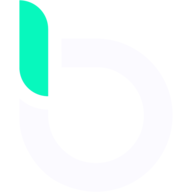
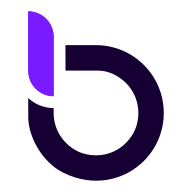
fix(*): try fixing seo shit

Changed region(s): [[0.0938, 0.0, 0.875, 0.9688]]

diff --git a/apps/root/public/index.html b/apps/root/public/index.html
@@ -4,22 +4,28 @@
     <meta charset="utf-8" />
     <meta name="image" content="https://ipfs.io/ipfs/QmU6FqjHkUeWwbNt3mLccEUP8j7vQuosVp61ry9XaSefMG">
     <meta name="keywords" content="crypto,cryptocurrency,balmy,wallet,banking,decentralized,swap,mean,finance,meanfinance,token,btc,eth,ethereum,balmy">
-    <link rel="apple-touch-icon" sizes="180x180" href="/apple-touch-icon.png">
-    <link rel="icon" type="image/png" sizes="32x32" href="/favicon-32x32.png">
-    <link rel="icon" type="image/png" sizes="16x16" href="/favicon-16x16.png">
-    <link rel="mask-icon" href="/safari-pinned-tab.svg" color="#5bbad5">
+    <link rel="apple-touch-icon" sizes="180x180" href="/apple-touch-icon.png?v=1">
+    <link rel="icon" type="image/svg+xml" sizes="any"  href="/favicon.svg?v=1">
+    <link rel="icon" type="image/png" sizes="48x48" href="/favicon.png?v=1">
+    <link rel="icon" type="image/png" sizes="32x32" href="/favicon-32x32.png?v=1">
+    <link rel="icon" type="image/png" sizes="16x16" href="/favicon-16x16.png?v=1">
+    <link rel="manifest" href="/site.webmanifest?v=1">
+    <link rel="mask-icon" href="/safari-pinned-tab.svg?v=1" color="#791aff">
+    <link rel="shortcut icon" href="/favicon.ico?v=1">
+    <meta name="apple-mobile-web-app-title" content="Balmy">
+    <meta name="application-name" content="Balmy">
+    <meta name="msapplication-TileColor" content="#791aff">
+    <meta name="theme-color" content="#FBFAFF">
     <meta name="robots" content="index, follow">
     <meta http-equiv="Content-Type" content="text/html; charset=utf-8">
     <meta name="language" content="English">
     <link rel="manifest" href="/site.webmanifest">
-    <meta name="msapplication-TileColor" content="#da532c">
     <meta
       name="viewport"
       content="minimum-scale=1, initial-scale=1, width=device-width"
     />
     <meta name="title" content="Balmy — Your Decentralized Home Banking">
     <meta name="description" content="Swap, Invest and Transfer your assets with ease. Rest assured, we’ve got your back as you dive into the exciting world of the future of finance.">
-    <link rel='shortcut icon' type='image/x-icon' href='/favicon.ico' />
 
     <meta itemprop="name" content="Balmy — Your Decentralized Home Banking">
     <meta itemprop="description" content="Swap, Invest and Transfer your assets with ease. Rest assured, we’ve got your back as you dive into the exciting world of the future of finance.">
